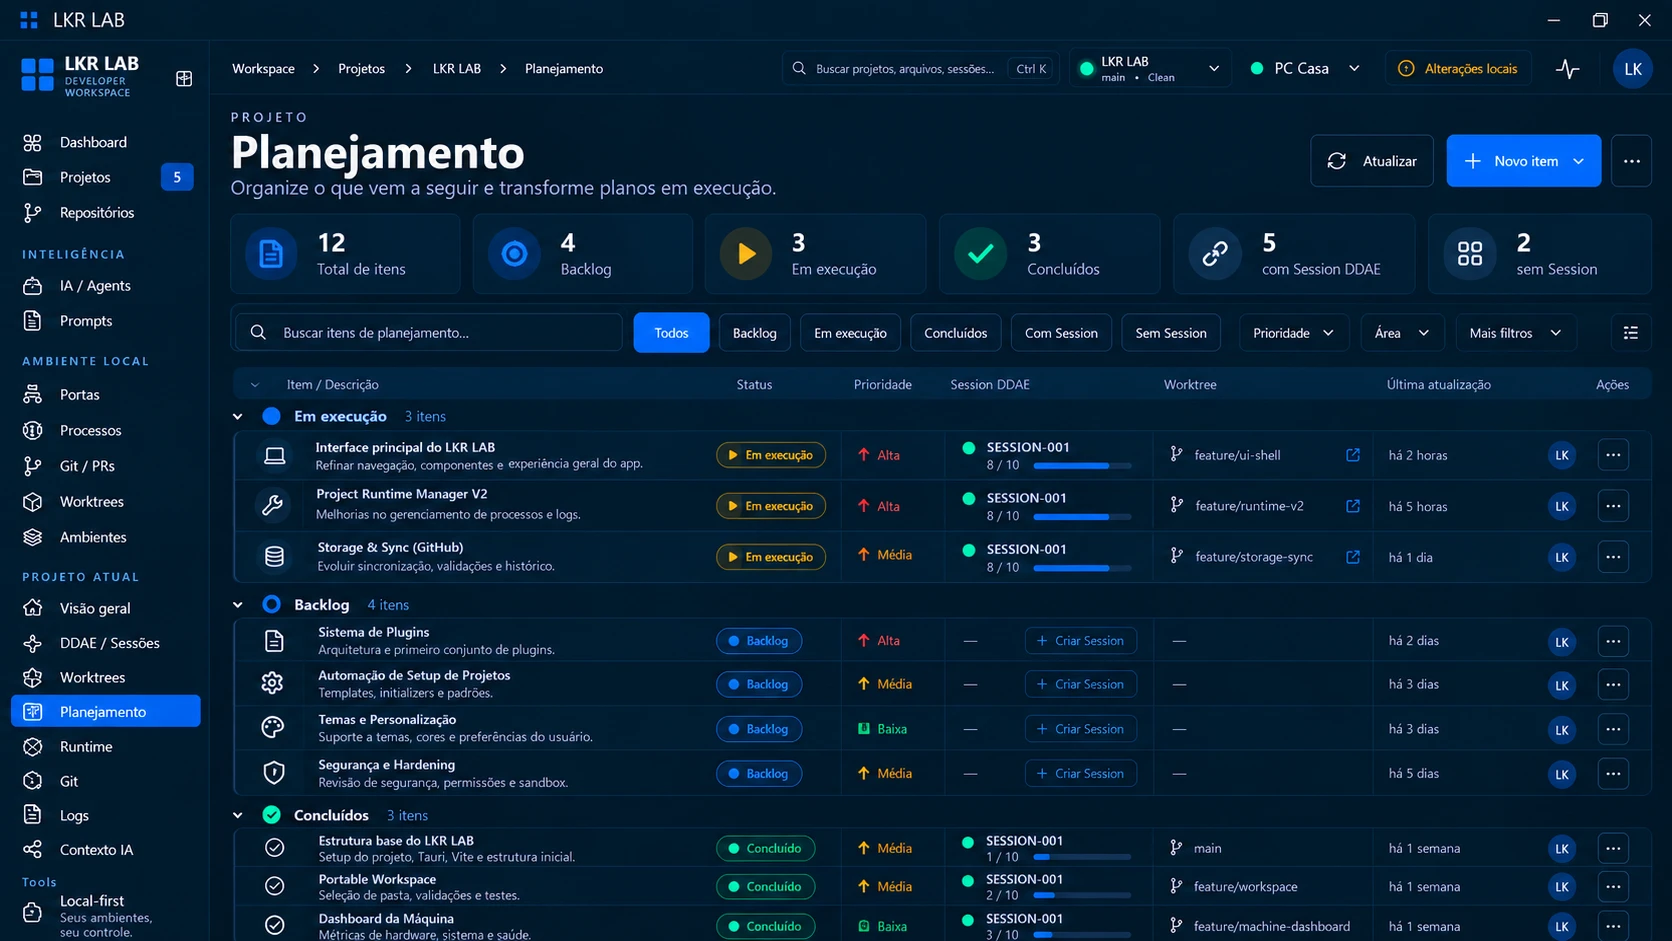
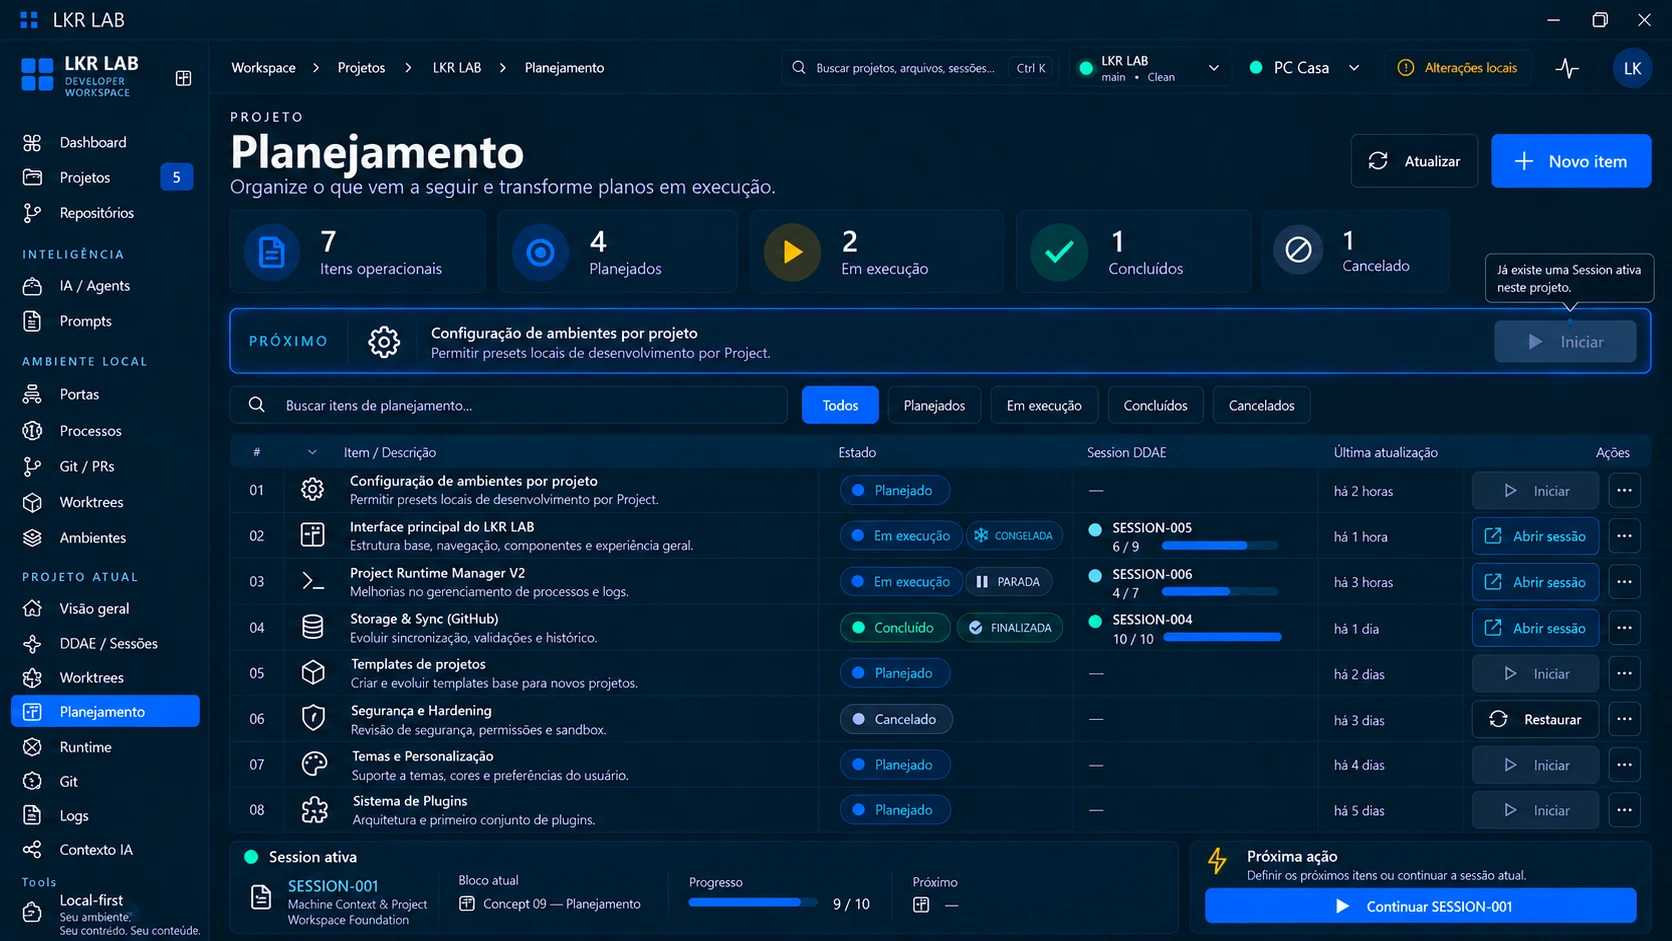
docs(planning): approve Concept 09 visual direction
- replace concept-09-planning.webp with the final approved version
- register the approved scope: derived summary, PRÓXIMO, ordered queue,
  derived states, Session link, Iniciar blocked by an active Session,
  separate Cancelado, Session ativa / Próxima ação split
- Concept 09 is APROVADO VISUALMENTE, not implemented; SESSION-001 stays ATIVA

diff --git a/docs/concepts/machine-registry/CONCEPT-09.md b/docs/concepts/machine-registry/CONCEPT-09.md
@@ -1,71 +1,48 @@
 # Concept 09 — Planejamento
 
-**Status:** EM REFINAMENTO (direção visual criada, ainda não aprovada)
+**Status:** APROVADO VISUALMENTE (implementação em andamento; ainda NÃO implementado)
 **Sessão DDAE:** [SESSION-001](../../ddae/sessions/SESSION-001-machine-context-workspace-foundation.md)
 **Imagem canônica:** [concept-09-planning.webp](concept-09-planning.webp)
+**Especificação refinada:** [CONCEPT-09-planning-refinement](../../ddae/audits/CONCEPT-09-planning-refinement.md)
 **Anterior:** [Concept 08](CONCEPT-08.md)
 
 ![Concept 09](concept-09-planning.webp)
 
 ## Objetivo
 
-Definir a página **Planejamento** do Project Control Center: a área para organizar o que está planejado para o sistema e transformar planos em execução, ligando itens planejados às sessões DDAE e às worktrees.
+Definir a página **Planejamento** do Project Control Center: uma fila ordenada e leve de features ainda não iniciadas, que se transformam em Sessions DDAE quando iniciadas. Planejamento responde **"O que vem depois?"**; o DDAE responde **"O que estamos executando agora?"**.
 
-## Conteúdo do concept
+Cadeia canônica: **Planning Item → Session DDAE → Worktree → Runtime / Git → Session concluída → Planning Item concluído.**
 
-- **Topbar:** breadcrumb Workspace › Projetos › LKR LAB › Planejamento. Rótulo da página "Projeto".
-- **Cabeçalho:** título "Planejamento", subtítulo "Organize o que vem a seguir e transforme planos em execução", ações **Atualizar**, **Novo item** (com menu) e menu.
-- **Cards de resumo:** total de itens, Backlog, Em execução, Concluídos, com Session DDAE e sem Session.
-- **Filtros:** busca, filtro por status (Todos, Backlog, Em execução, Concluídos), por vínculo (Com Session, Sem Session), por Prioridade, Área e "Mais filtros".
-- **Tabela agrupada por status**, com grupos recolhíveis: Em execução, Backlog e Concluídos, cada um com contador. Colunas: Item e descrição, Status, Prioridade (Alta, Média, Baixa), **Session DDAE**, **Worktree**, Última atualização, responsável e Ações.
-- **Item em execução:** mostra a sessão vinculada com o progresso em blocos e a worktree, com link para abri-la.
-- **Item de backlog:** sem sessão nem worktree, com a ação **Criar Session**.
-- **Item concluído:** mantém o vínculo com a sessão, com o progresso registrado, e com a worktree ou branch onde foi feito.
+## Versão final aprovada
+
+A imagem canônica substitui a primeira direção visual (que tinha Backlog, Prioridade, Área, responsável, "Mais filtros", 12 itens e a mesma SESSION-001 em seis itens). A versão aprovada possui:
+
+- **Resumo operacional derivado:** 7 itens operacionais, 4 planejados, 2 em execução, 1 concluído; o **cancelado (1) fica separado** e fora do total operacional.
+- **Bloco PRÓXIMO:** o primeiro item planejado da fila, com o CTA **Iniciar**. Com Session ativa no Project, o CTA fica **desabilitado** com a explicação "Já existe uma Session ativa neste projeto."
+- **Fila ordenada** em tabela única (#, Item / Descrição, Estado, Session DDAE, Última atualização, Ações), **sem drag handles**, **sem prioridade**, **sem responsável**.
+- **Estados derivados:** PLANEJADO, EM EXECUÇÃO (com subbadge ATIVA / CONGELADA / PARADA), CONCLUÍDO (com FINALIZADA) e CANCELADO. **PARADA usa slate.**
+- **Vínculo com a Session:** `SESSION-NNN` com progresso real (ex.: SESSION-005 6/9 CONGELADA, SESSION-006 4/7 PARADA, SESSION-004 10/10 FINALIZADA). CTA **Abrir sessão** para itens com Session; **Restaurar** para o cancelado.
+- **Todos os "Iniciar" desabilitados** enquanto houver Session ativa no Project.
+- **Filtros:** Todos, Planejados, Em execução, Concluídos, Cancelados. **Sem "Mais filtros".** **Novo item** sem dropdown.
+- **Rodapé separado em dois blocos:** **Session ativa** (SESSION-001, bloco atual Concept 09 — Planejamento, 9/10) e **Próxima ação** ("Continuar SESSION-001"), que vem do Project Control Center e é independente do PRÓXIMO do Planejamento.
+
+> Os valores do concept (itens, SESSION-004/005/006, horários, contagens) são **ilustrativos** da referência visual. Nenhum desses itens ou sessões existe no banco real e **não serão criados**. A SESSION-001 é uma Session legada real e **não** nasceu do Planejamento: não possui Planning Item.
 
 ## Regras canônicas
 
-1. Planejamento é uma **área do projeto** para organizar o que está planejado para o sistema: backlog, itens, ideias e próximos passos.
-2. O ciclo do item é: **Backlog → Em execução → Concluído**. O ciclo vem do fluxo definido na [SESSION-001](../../ddae/sessions/SESSION-001-machine-context-workspace-foundation.md): item planejado → criar Session DDAE → Session ativa → conclusão → item concluído.
-3. **Criar Session** é a ação que transforma um item de backlog em trabalho: cria uma sessão DDAE vinculada ao item ([Concept 06](CONCEPT-06.md)) e o item passa a Em execução.
-4. Um item em execução tem **sessão DDAE** e **worktree** vinculadas ([Concept 08](CONCEPT-08.md)), formando a cadeia item de planejamento → sessão DDAE → worktree.
-5. Itens podem existir **sem sessão**. O concept conta e filtra os itens "com Session" e "sem Session".
-6. Cada item tem **prioridade** (Alta, Média, Baixa), **área** e responsável.
-7. Os agrupamentos usam o mesmo sistema de estados e cores do restante do LKR LAB. Apenas o que está ativo ganha destaque forte.
-8. Status do item, vínculo e prioridade são **metadata operacional do LKR LAB**, não dados do Git.
-9. O vínculo com worktree é uma referência. O path e o estado Git continuam sendo da máquina ([Concept 01](CONCEPT-01.md), [Concept 08](CONCEPT-08.md)).
+1. Planning Item pertence a **1 Project**. Campos: `id`, `project_id`, `title`, `description`, `position`, `stored_status` (`open | cancelled`), `cancel_reason?`, `created_at`, `updated_at`, `cancelled_at?`.
+2. **Estados derivados, nunca persistidos:** planejado (open sem Session), em execução (Session `active | frozen | stopped`), concluído (Session `completed`). Persistem apenas `open` e `cancelled`.
+3. **O vínculo mora na Session:** `ddae_sessions.planning_item_id` (nullable), com índice único parcial. 1 item : 0..1 Session; 1 Session : 0..1 item. SESSION = FEATURE.
+4. **Sem prioridade:** a ordem manual da fila é a prioridade prática. Operações: mover para cima, para baixo e ao topo. Reordenar não gera evento. Sem drag-and-drop no MVP.
+5. **Iniciar não cria Session silenciosamente:** abre o formulário de Nova Session pré-preenchido (título ← título do item; objetivo ← descrição); o usuário revisa e confirma.
+6. **Uma Session ACTIVE por Project:** com Session ativa, Iniciar fica desabilitado. Não congela nem cria Session congelada automaticamente.
+7. **Concluir não é ação:** Session `completed` torna o item CONCLUÍDO (derivado).
+8. **Cancelar** só para item sem Session; cancelado não entra no total operacional, é restaurável e não pode ser iniciado. **Não existe exclusão destrutiva.**
+9. **PRÓXIMO ≠ Próxima ação:** PRÓXIMO é do Planejamento (primeiro planejado da fila, mesmo com Iniciar desabilitado); Próxima ação é do Project Control Center.
+10. Metadata **operacional do LKR LAB** (classe B, portátil, pertence ao Project): nunca path, Machine ID, hostname ou IP. Não há relação direta Planning ↔ Worktree (Planning → Session → Worktree).
+11. Não é Jira/Trello: sem épicos, sprints, tags, área, responsável ou milestones.
 
-> Nota: os valores do concept (itens, descrições, branches, contagens, horários) são ilustrativos da referência visual, não dados reais nem contrato de campos. Os itens de exemplo incluem sessões, progressos e worktrees que não existem no registro atual.
+## Estado atual
 
-## Observações para a implementação futura
-
-- **Mesma sessão em vários itens:** no concept, os três itens em execução e os concluídos apontam para a mesma SESSION-001 com progressos diferentes (8 / 10 e 1 / 10, 2 / 10, 3 / 10). Isso contradiz "uma sessão representa uma feature" ([Concept 07](CONCEPT-07.md)) e o modelo de um item por sessão. É preciso definir se vários itens podem compartilhar uma sessão e como o progresso de cada um é medido.
-- **Progresso nos concluídos:** itens concluídos mostram progresso parcial (1 / 10, 2 / 10, 3 / 10) vinculado à sessão. Falta definir o que significa "progresso do item" quando o item é concluído.
-- **Contagens do resumo:** o card mostra 12 itens no total, mas Backlog (4) + Em execução (3) + Concluídos (3) somam 10. Os cards "5 com Session DDAE" e "2 sem Session" somam 7, e o concept exibe 6 itens com sessão e 4 sem sessão. Falta definir a regra de contagem (itens arquivados, outros status ou apenas dados ilustrativos).
-- **Origem dos itens:** o concept mostra "Novo item" com menu, mas o conteúdo do menu e o formulário de criação não foram desenhados. Não está definido se itens vêm também de outras fontes (TASKS.md, issues).
-- **Relação com `TASKS.md`:** o repositório já tem `TASKS.md` e `docs/ROADMAP.md`. Falta decidir se o Planejamento substitui, importa ou coexiste com esses arquivos.
-- **Armazenamento:** onde ficam os itens (banco local, arquivo portátil, ou ambos) segue sem decisão.
-- **Área:** os valores possíveis do filtro de área não estão definidos.
-- **Responsável:** o concept mostra um avatar por item. Não está definido o modelo de usuários, já que o produto é local-first e hoje de um só usuário.
-
-## Estado atual — em refinamento
-
-Este é o último concept do roadmap e o único ainda **não aprovado**: 8 de 9 concepts estão aprovados. A SESSION-001 permanece **ATIVA**.
-
-O concept define a camada onde o trabalho percorre: Ideia / necessidade → Planejamento → Session DDAE → Worktree → Execução → Conclusão.
-
-A direção visual está criada, mas ainda há inconsistências semânticas a corrigir antes da aprovação:
-
-- resumo numérico inconsistente;
-- falta explícita do grupo **Planejado**;
-- associação excessiva de itens à SESSION-001;
-- vínculos DDAE precisam respeitar SESSION-001/002/003/004;
-- a continuidade precisa mostrar a SESSION-001 no Concept 09;
-- o progresso deve refletir o estado definido na arquitetura.
-
-**Refinamento em curso:** a auditoria contra a arquitetura real (DDAE e Worktrees implementados) e a especificação revisada estão em [CONCEPT-09-planning-refinement](../../ddae/audits/CONCEPT-09-planning-refinement.md). O status continua **EM REFINAMENTO**.
-
-Próximo passo: aprovar o Concept 09; depois, fechamento/validação dos concepts e decisão de como e em que ordem implementar.
-
-## Fora de escopo
-
-Este registro é documental. Nada aqui implementa a página, os itens, o vínculo com sessões e worktrees, banco, APIs ou bridge.
+Concept 09 está **APROVADO VISUALMENTE** e entra em implementação. SESSION-001 permanece **ATIVA** (9/10, bloco atual Concept 09 — Planejamento). Nada do módulo está implementado até este registro; o status só passa a **IMPLEMENTADO E VALIDADO NO DESKTOP** após código e validação real.

diff --git a/docs/ddae/sessions/SESSION-001-machine-context-workspace-foundation.md b/docs/ddae/sessions/SESSION-001-machine-context-workspace-foundation.md
@@ -12,7 +12,7 @@ A feature começa pela identidade da workstation e evolui para:
 
 Machine Registry → Machine Health → Projects → Project Control Center → DDAE → Worktrees → Planning
 
-Esta sessão combina **concepts e implementação**: 8 de 9 concepts estão aprovados e o Concept 09 — Planejamento está em refinamento. Implementados até agora: Concept 01 (D01) e Concept 02 (D02).
+Esta sessão combina **concepts e implementação**: 9 de 9 concepts estão aprovados (o Concept 09 — Planejamento foi aprovado visualmente e entra em implementação). Implementados até agora: Concept 01 (D01) e Concept 02 (D02).
 
 ## Blocos
 
@@ -27,9 +27,9 @@ Esta sessão combina **concepts e implementação**: 8 de 9 concepts estão apro
 | 07 | Concept 06 — DDAE / Sessões | CONCLUÍDO (visual APROVADO; IMPLEMENTADO E VALIDADO NO DESKTOP — ver D04) | [CONCEPT-06](../../concepts/machine-registry/CONCEPT-06.md), [imagem](../../concepts/machine-registry/concept-06-ddae-sessions.webp) |
 | 08 | Concept 07 — DDAE / Detalhe da Sessão | CONCLUÍDO (visual APROVADO; IMPLEMENTADO E VALIDADO NO DESKTOP — ver D05) | [CONCEPT-07](../../concepts/machine-registry/CONCEPT-07.md), [imagem](../../concepts/machine-registry/concept-07-ddae-session-detail.webp) |
 | 09 | Concept 08 — Worktrees | CONCLUÍDO (visual APROVADO; IMPLEMENTADO E VALIDADO NO DESKTOP — ver D06) | [CONCEPT-08](../../concepts/machine-registry/CONCEPT-08.md), [imagem](../../concepts/machine-registry/concept-08-worktrees.webp) |
-| 10 | Concept 09 — Planejamento | EM ANDAMENTO (visual EM REFINAMENTO) | [CONCEPT-09](../../concepts/machine-registry/CONCEPT-09.md), [imagem](../../concepts/machine-registry/concept-09-planning.webp) |
+| 10 | Concept 09 — Planejamento | EM ANDAMENTO (visual APROVADO; implementação em andamento) | [CONCEPT-09](../../concepts/machine-registry/CONCEPT-09.md), [imagem](../../concepts/machine-registry/concept-09-planning.webp) |
 
-**Bloco atual:** 10 — Concept 09 — Planejamento, em refinamento (pendências em [CONCEPT-09](../../concepts/machine-registry/CONCEPT-09.md)). Progresso conceitual: 8 de 9 concepts aprovados.
+**Bloco atual:** 10 — Concept 09 — Planejamento, visual aprovado, em implementação ([CONCEPT-09](../../concepts/machine-registry/CONCEPT-09.md)). Progresso conceitual: 9 de 9 concepts aprovados.
 
 ### Bloco 01 — Product Architecture (CONCLUÍDO)
 
@@ -109,6 +109,11 @@ Integrado à `main` por fast-forward (`cfebf88`). As branches `feat/session-001-
 - **Concept 08 — Worktrees:** IMPLEMENTADO E VALIDADO NO DESKTOP (ver D06).
 - **Próximo domínio:** PLANEJAMENTO. **Concept 09: EM REFINAMENTO** (não aprovado, não implementado); branch `feat/session-001-planning-foundation`; auditoria e especificação refinada em [CONCEPT-09-planning-refinement.md](../audits/CONCEPT-09-planning-refinement.md). Nenhum código de Planejamento foi escrito.
 - SESSION-001 continua ATIVA; bloco atual **Concept 09 — Planejamento** (não alterado).
+
+### Checkpoint — CONCEPT 09 APROVADO VISUALMENTE
+
+- **Concept 09 — Planejamento: APROVADO VISUALMENTE**, NÃO implementado. O asset `concept-09-planning.webp` foi substituído pela versão final aprovada (7 itens operacionais, bloco PRÓXIMO, Iniciar desabilitado com Session ativa, cancelado separado, sem prioridade, drag handles ou "Mais filtros"; Session ativa e Próxima ação em blocos separados). Detalhes em [CONCEPT-09](../../concepts/machine-registry/CONCEPT-09.md).
+- SESSION-001 continua ATIVA (9/10, bloco atual Concept 09 — Planejamento). Ela não nasceu do Planejamento e não terá Planning Item retroativo.
 
 ### Bloco D06 — Worktrees / Concept 08 (IMPLEMENTADO E VALIDADO NO DESKTOP)
 
@@ -264,7 +269,7 @@ Implementação do Concept 01. (Na época do bloco, o Dashboard seguia como esta
 | 06 | DDAE / Sessões | APROVADO / IMPLEMENTADO E VALIDADO NO DESKTOP |
 | 07 | DDAE / Detalhe da Sessão | APROVADO / IMPLEMENTADO E VALIDADO NO DESKTOP |
 | 08 | Worktrees | APROVADO / IMPLEMENTADO E VALIDADO NO DESKTOP |
-| 09 | Planejamento | EM REFINAMENTO |
+| 09 | Planejamento | APROVADO VISUALMENTE (implementação em andamento) |
 
 ## Decisões de arquitetura registradas
 

diff --git a/docs/ddae/audits/CONCEPT-09-planning-refinement.md b/docs/ddae/audits/CONCEPT-09-planning-refinement.md
@@ -1,6 +1,6 @@
 # Concept 09 — Planejamento: auditoria e especificação refinada
 
-**Status do Concept 09: EM REFINAMENTO** (não aprovado, não "a iniciar", não implementado). Este documento é uma proposta para uma **nova revisão visual**; nada aqui foi implementado nem decidido de forma definitiva.
+**Status do Concept 09: APROVADO VISUALMENTE** (versão final com PRÓXIMO, Iniciar desabilitado com Session ativa e Cancelado separado); implementação em andamento, ainda não implementado. Este documento é a especificação refinada que originou a versão aprovada; as decisões D1–D12 seguem as recomendações descritas aqui.
 **Base:** `main` em `cfebf88` (Concepts 01–08 integrados). **Branch:** `feat/session-001-planning-foundation`.
 **Fontes lidas:** [CONCEPT-09](../../concepts/machine-registry/CONCEPT-09.md) e a imagem atual, CONCEPT-06/07/08, a [SESSION-001](../sessions/SESSION-001-machine-context-workspace-foundation.md), `TASKS.md` / `docs/ROADMAP.md`, o modelo real de DDAE (Sessions, Blocks, critérios, `ddae_events`), Worktrees (`managed_worktrees`, `worktree_events`), o workspace portátil v4, o roteador de Project e o Project Control Center.
 
